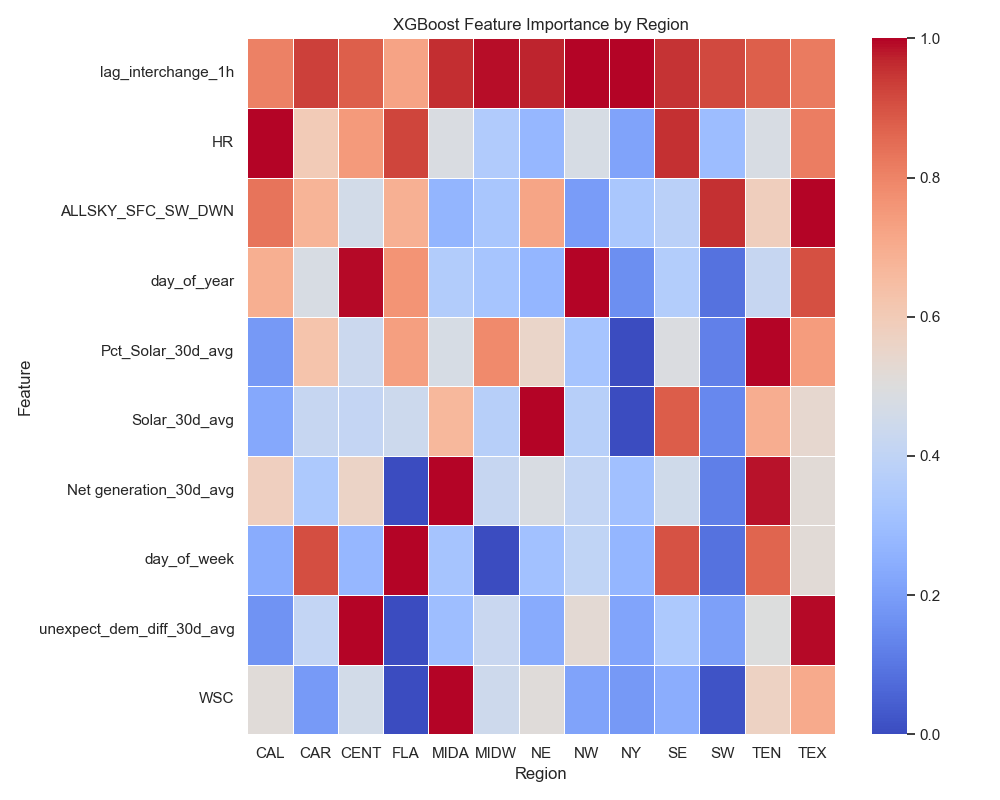
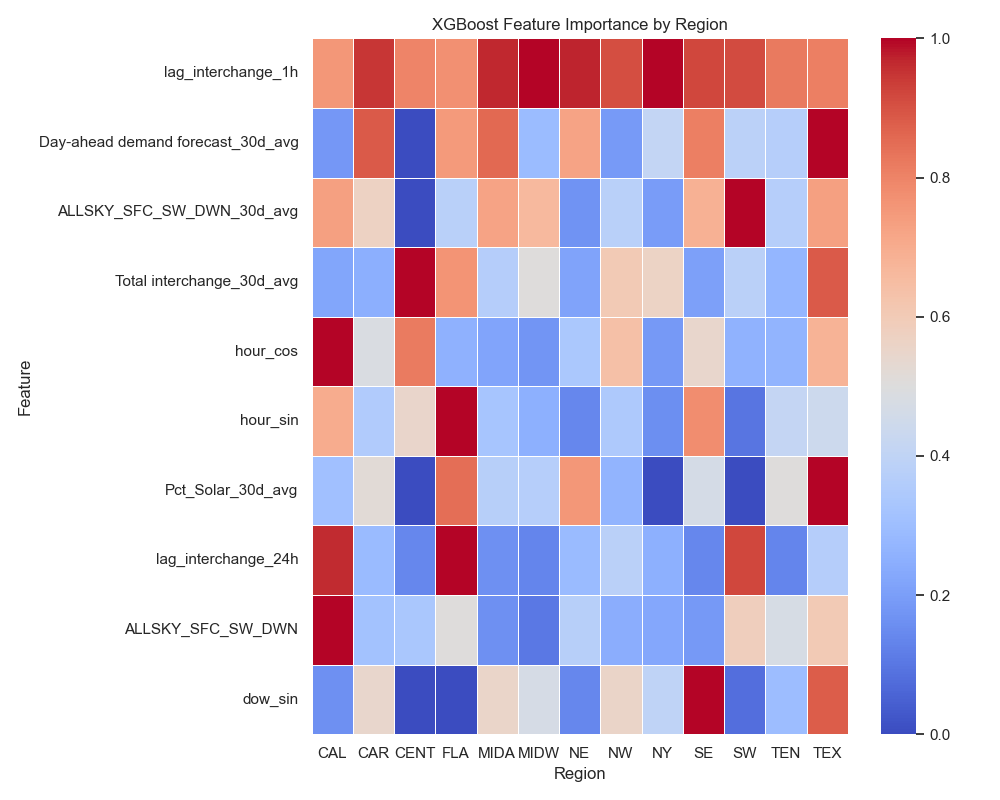
Update README, Make and figures

diff --git a/README.md b/README.md
@@ -178,7 +178,13 @@ for solar.  Firthermore, we can see that during winter time demand spikes, wind 
 
 
 ### Machine Learning Model Implementation
-After training XGBoost for each region using cross validation based on a train/test split of 4years/1year, we have been 
+We have created a naive prediction model where we use the prior observation from 24 hour lag to assume that will be the 
+current observation.  This is what our baseline is for each of our models to beat before we perform some scenario analysis.  
+Below are the performance metric results.  We will use these to compare across all models for all regions.
+
+![Naive Prediction Results by Region](figs/Naive_pred_results_by_region.png)
+
+After training XGBoost for each region using cross validation based on a train/validation/test split of 3years/1.5year/0.5year, we have been 
 able to observe there are some large regional variations in the model metrics.  This is likely due to idiosyncrasies in 
 each region's power generation relating to proportion of renewables, temperature variation over the year, and ability to 
 meet its own demand. Feature importance for each region also shows some divergent patterns likely due to the same factors. 
